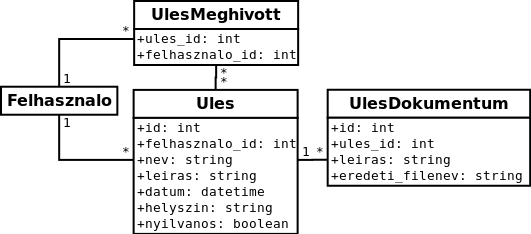
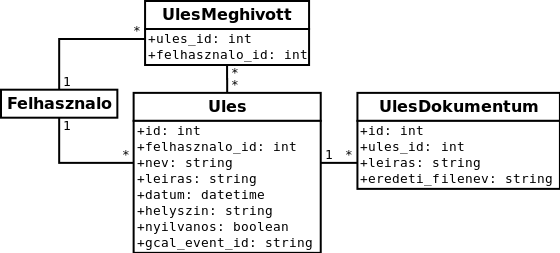
ules modul befejezese, korabbrol hianyzo kepalairasok

Changed region(s): [[0.0, 0.0, 1.0, 1.0]]

diff --git a/szakdolgozat.tex b/szakdolgozat.tex
@@ -281,21 +281,33 @@ Az következőkben bemutatom a rendszer három várhatóan leggyakrabban látoga
 
 \subsubsection{Kezdőlap}
 
-Bejelentkezés után minden felhasználó erre az oldalra érkezik. Áttekintő táblázatot kap az elkövetkező üléseiről, illetve azon jegyzőkönyveiről, melyek már létre lettek hozva, de még nincsenek lezárva.
+Bejelentkezés után minden felhasználó erre az oldalra érkezik. Áttekintő táblázatot kap az elkövetkező üléseiről, illetve azon jegyzőkönyveiről, melyek már létre lettek hozva, de még nincsenek lezárva. Ennek terve látható a \ref{fig:wireframe-kezdolap}. ábrán.
 
-\includegraphics[width=\textwidth]{wireframe-kezdolap}
+\begin{figure}[h]
+    \includegraphics[width=\textwidth]{wireframe-kezdolap}
+    \caption{A bejelentkezettek kezdőlapjának látványterve}
+    \label{fig:wireframe-kezdolap}
+\end{figure}
 
 \subsubsection{Üléshirdetés}
 
-Ezen a képernyőn lehet megadni az ülés alapadatait és résztvevőket meghívni.
+Ezen a képernyőn lehet megadni az ülés alapadatait és résztvevőket meghívni. Ennek terve látható a \ref{fig:wireframe-uleshirdetes}. ábrán.
 
-\includegraphics[width=\textwidth]{wireframe-uleshirdetes}
+\begin{figure}[h]
+    \includegraphics[width=\textwidth]{wireframe-uleshirdetes}
+    \caption{Az ülés hirdetésére szolgáló űrlap látványterve}
+    \label{fig:wireframe-uleshirdetes}
+\end{figure}
 
 \subsubsection{Jegyzőkönyvírás}
 
-Itt tudja az írással megbízott felhasználó felvinni a jegyzőkönyv elemeit, melyek sorrendfüggően egymás alatt látszanak.
+Itt tudja az írással megbízott felhasználó felvinni a jegyzőkönyv elemeit, melyek sorrendfüggően egymás alatt látszanak. Ennek látványterve található a \ref{fig:wireframe-jegyzokonyvszerkesztes}. ábrán.
 
-\includegraphics[width=\textwidth]{wireframe-jegyzokonyvszerkesztes}
+\begin{figure}[h]
+    \includegraphics[width=\textwidth]{wireframe-jegyzokonyvszerkesztes}
+    \caption{A jegyzőkönyv szerkesztésére szolgáló felület látványterve}
+    \label{fig:wireframe-jegyzokonyvszerkesztes}
+\end{figure}
 
 \subsection{Jogosultságok leírása}
 
@@ -414,7 +426,6 @@ class AppKernel extends Kernel
         return $bundles;
     }
 }
-
 \end{lstlisting}
 
 Ezeket persze lehet feltételesen regisztrálni, azaz megtehetjük, hogy egy adott (mondjuk automatikus naplózáshoz használt) bundle csak az éles szerveren van használva, tesztkörnyezetben nem.
@@ -793,9 +804,87 @@ Ennek a modulnak a felelőssége az ülések létrehozása, szerkesztése, törl
 
 \subsubsection*{Új ülés hirdetése}
 
+Az üléshirdető joggal rendelkező felhasználók létrehozhatnak új üléseket, megadhatják meghívottjaikat, illetve létrehozás után tölthetnek fel hozzá dokumentumokat. Az üléslista alján található {\it Új ülés} gomb a korábban már látott {\tt is\_granted} függvénnyel van biztosítva, a controllerünk viszont egy eddig nem látott módszerrel: a megfelelő függvény kapott egy annotációt:
+
+\begin{lstlisting}
+/**
+ * @Secure(roles="ROLE_ULESHIRDETO")
+ */
+public function newAction(Request $request)
+\end{lstlisting}
+
+Ezután a Security komponens az ide mutató összes url elérésekor ellenőrzi, a bejelentkezett felhasználó rendelkezik-e ezzel a joggal, ha nem, automatikusan hibaoldalra irányítja.
+
+Az űrlap a korábban már mutatott adatbázis-séma alapadatait tartalmazza, valamint egy listát a rendszer felhasználóiról, mindegyikhez tartozik egy jelölőnégyzet, amivel azt tudjuk megadni: meghívott-e az illető. Ez látható a \ref{fig:ules_uj}. ábrán.
+
+\begin{figure}[h]
+    \includegraphics[width=\textwidth]{ules_uj.png}
+    \caption{Az új ülés hirdetésére szolgáló űrlap}
+    \label{fig:ules_uj}
+\end{figure}
+
+\subsubsection*{Dokumentumok kezelése}
+
+Miután kihirdette az ülést, a szerkesztésére szolgáló oldalon a felhasználó tud hozzá tetszőleges számú dokumentumot feltölteni \textendash{} ez akkor hasznos, amikor például az ülés egy belső szabályzat tervezett módosításáról szól, ahogy nem sokkal ezelőtt a Hallgatói Önkormányzat tárgyalta a tervezett TVSz-változtatásokat. A dokumentumoknak egy kötelező mezője van, a leírásuk, ide 255 karakter hosszan bármit lehet írni. Tárolom ezen kívül az eredeti fájlnevet, hogy letöltéskor ugyanazon a néven lehessen menteni.
+
+Ezeket a dokumenentumokat később nyilvános ülés esetén bárki, zárt ülés esetén pedig a meghívottak tudják letölteni. A fájlok olyan helyen vannak tárolva, ami nem elérhető kívülről, így a letöltést mindenképp a rendszeren keresztül kell végezni, ahol van lehetőség a jogosultság ellenőrzésére.
+
+A fájlokat kiszolgáló controller egy {\tt ParamConverter} segítségével rögtön egy {\tt Dokumentum} objektumot kap, lérehoz egy választ, beállítja a letöltéshez szükséges fejléceket és a tartalmat, majd visszatér azzal:
+
+\begin{lstlisting}
+public function downloadAction(Dokumentum $dokumentum)
+{
+    $response = new Response();
+    $response->setContent(file_get_contents($dokumentum->getFilename()));
+    $response->headers->set("Content-Type", "application/octet-stream");
+    $response->headers->set("Content-Disposition", "attachment; filename=" . $dokumentum->getEredetiFilenev());
+
+    return $response;
+}
+\end{lstlisting}
+
 \subsubsection*{Google Naptár}
 
-\todo[inline]{Ezt az egészet még kódszinten is meg kell valósítani előbb}
+A hirdetett ülésekről a rendszer a Google Naptárában létrehoz egy eseményt a rendszerben megadott adatokkal, meghívottakkal. Ennek három fontos előnye van:
+
+\begin{enumerate}
+    \item Esemény létrehozásakor a meghívottak emailben értesítőt kapnak, amiben szerepel az ülés címe, leírása, helye és ideje
+    \item Esemény módosításakor a meghívottak erről is értesítést kapnak
+    \item Az esemény a meghívottak naptárában is látszik, ezzel segítve a teendőik átlátását
+\end{enumerate}
+
+A kommunikációt a Google hivatalos klienskönyvtárának segítségével valósítottam meg.
+
+A Symfony2 része egy eseménykezelő komponens. Ebben tetszőleges eseményeket hozhatunk létre, és iratkozhatunk fel rájuk. Erre az egyik lehetőség egy {\it Event Subscriber} osztály készítése, majd regisztrációja:
+
+\begin{lstlisting}
+szakdolgozat.ules.gcal_event_subscriber:
+    class: Szakdolgozat\UlesBundle\EventSubscriber\GcalEventSubscriber
+    arguments: [@session, @doctrine.orm.default_entity_manager]
+    tags:
+        - { name: "kernel.event_subscriber" }
+\end{lstlisting}
+
+Egy statikus függvény visszatérési értékével kell meghatároznunk, mely eseményekre akarunk feliratkozni, és azok mely függvényeket hívják meg:
+
+\begin{lstlisting}
+public static function getSubscribedEvents()
+{
+    return array(
+        "ules.new"      =>  "ulesNew",
+        "ules.edit"     =>  "ulesEdit",
+        "ules.delete"   =>  "ulesDelete",
+    );
+}
+\end{lstlisting}
+
+Definiáltam továbbá egy {\tt GcalEvent} osztályt, az események adataként ilyet továbbítok. Új ülés létrehozásakor a controllerben szükséges kód a következő:
+
+\begin{lstlisting}
+$this->get("event_dispatcher")->dispatch("ules.new", new GcalEvent($ules));
+\end{lstlisting}
+
+Az {\tt ulesNew} függvényünk gondoskodik a naptárbejegyzés létrehozásáról, valamint annak visszakapott azonosítójának adatbázisba mentéséről \textendash{} erre később az ülés szerkesztésekor és törlésekor lesz szükségünk.
 
 \subsection{Jegyzőkönyvíró-modul}
 
